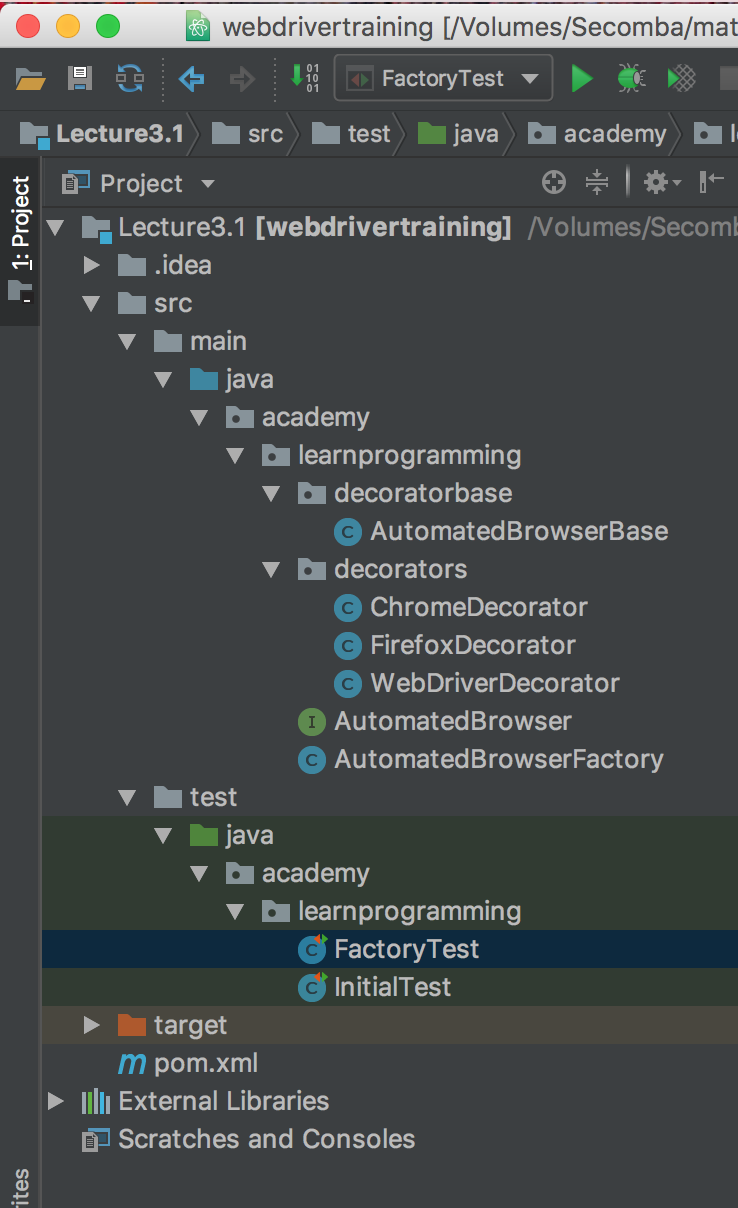
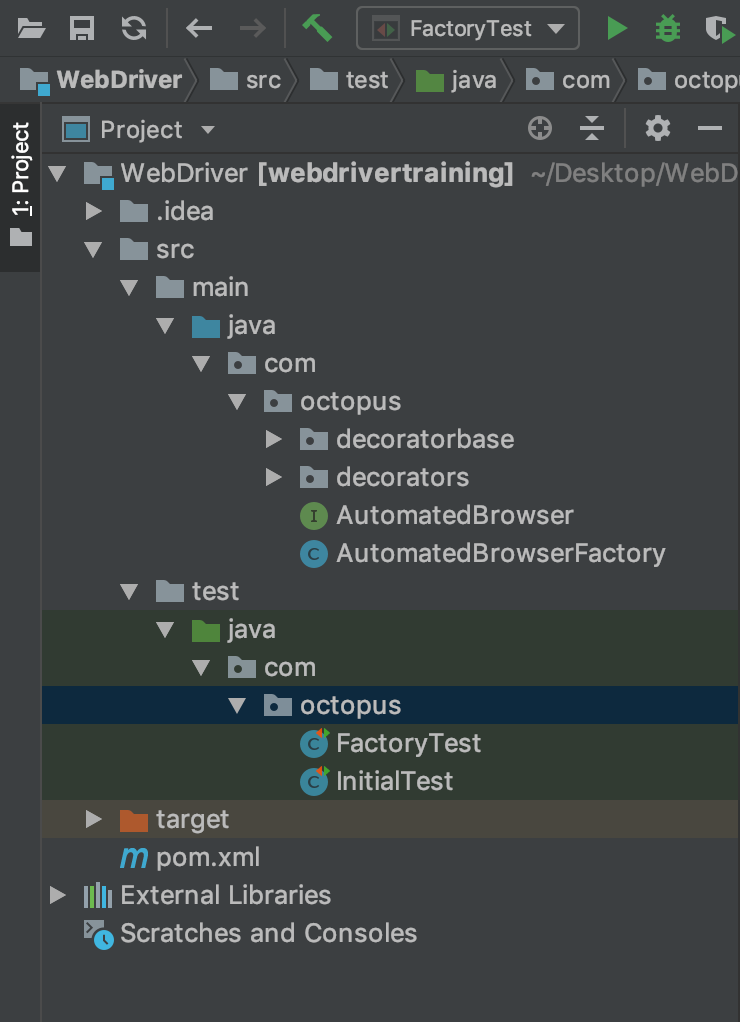
Finished with post 4

Changed region(s): [[0.0, 0.0, 1.0, 0.9706], [0.0, 0.9706, 0.0623, 1.0]]

diff --git a/blog/2018-10/selenium/4-creating-the-framework/creating-the-framework.md b/blog/2018-10/selenium/4-creating-the-framework/creating-the-framework.md
@@ -17,33 +17,33 @@ Before we can create this class, we first need to add a new directory to our pro
 
 Right click on the `src` directory, and select `New` → `Directory`.
 
-![](./image1.png)
+![](./image1.png "width=500")
 
 Enter `main/java/com/octopus` as the directory name and click
 `OK`.
 
-![](./image2.png)
+![](./image2.png "width=500")
 
 As before, the new directory structure is created, but it is not yet recognized by IntelliJ as a directory that holds Java classes.
 
-![](./image3.png)
+![](./image3.png "width=500")
 
 To fix this, open the `Maven Projects` tool window and click the `Reimport All Maven Projects` button.
 
-![](./image4.png)
+![](./image4.png "width=500")
 
 The `java` directory is now shown with a blue icon, which indicates that it will hold Java classes.
 
-![](./image5.png)
+![](./image5.png "width=500")
 
 We can now create the class `AutomatedBrowserFactory` in the
 `src/main/java/com/octopus` directory. To create the new click right click on the `octopus` folder and select `New` → `Java Class`.
 
-![](./image11.png)
+![](./image11.png "width=500")
 
 Enter `AutomatedBrowserFactory` in the `Name` field and click the `OK` button.
 
-![](./image12.png)
+![](./image12.png "width=500")
 
 In the snippet below, we have a factory skeleton with a method called `getAutomatedBrowser()` that accepts the name of the browser that we wish to test against. This method returns an instance of the `AutomatedBrowser` interface.
 
@@ -80,11 +80,11 @@ The `AutomatedBrowser` interface will expose all the interactions we will perfor
 
 To create the `AutomatedBrowser` interface right click on the `octopus` directory and select `New` → `Java Class`.
 
-![](./image13.png)
+![](./image13.png "width=500")
 
 Enter `AutomatedBrowser` in the `Name` field, select the `Interface` option from the `Kind` field, and click the `OK` button.
 
-![](./image14.png)
+![](./image14.png "width=500")
 
 Then paste the following code into the new file.
 
@@ -136,15 +136,15 @@ own package will be an important design decision for features that we'll look at
 
 To create the new package, right click on the `octopus` directory and select `New` → `Package`.
 
-![](./image6.png)
+![](./image6.png "width=500")
 
 Enter the name `decoratorbase`, and click the `OK` button.
 
-![](./image7.png)
+![](./image7.png "width=500")
 
 The new package is then added to the directory structure.
 
-![](./image8.png)
+![](./image8.png "width=500")
 
 Inside the `com.octopus.decoratorbase` package create a new
 class called `AutomatedBrowserBase` with the following code. Each method defined in the `AutomatedBrowser` interface is implemented by passing it through to the `automatedBrowser` instance variable (if it is not null).
@@ -242,7 +242,7 @@ public class AutomatedBrowserBase implements AutomatedBrowser {
 
 Now let's extend the `AutomatedBrowserBase` class to create the `ChromeDecorator` class. `ChromeDecorator` will override the `init()` method to create an instance of the `ChromeDriver` class.
 
-The `ChromeDecorator` class will be placed in the `com.octopus.decorators` package, so create the new decorators package just like you did with the `decoratorbase` package.
+The `ChromeDecorator` class will be placed in the `com.octopus.decorators` package, so create the new `decorators` package just like you did with the `decoratorbase` package.
 
 Inside the `com.octopus.decorators` package create a class called `ChromeDecorator` with the following code.
 
@@ -302,8 +302,7 @@ The last step is to initialize the drivers by calling `getAutomatedBrowser().ini
 
 The final decorator we need is one that uses the WebDriver API to perform actions against the browsers initialized by either the `ChromeDecorator` or `FirefoxDecorator` classes. For this we'll create the `WebDriverDecorator` class.
 
-The `WebDriverDecorator` class will host a `WebDriver` instance, and expose it through the `getWebDriver()` and `setWebDriver()` methods. `The destroy()` method will close the web browser, and the `goTo()` method opens up the
-supplied URL.
+The `WebDriverDecorator` class will host a `WebDriver` instance, and expose it through the `getWebDriver()` and `setWebDriver()` methods. `The destroy()` method will close the web browser, and the `goTo()` method opens up the supplied URL.
 
 Notice that `WebDriverDecorator` has a default constructor. This is unlike `ChromeDecorator` and `FirefoxDecorator`, which both provide a single constructor that takes a `AutomatedBrowser`. This difference exists because `WebDriverDecorator` is intended to be the base `AutomatedBrowser` that other decorators wrap up. We'll see this in action when we update the `AutomatedBrowserFactory` class.
 
@@ -313,61 +312,42 @@ We've already seen a lot of the code that goes into `the WebDriverDecorator` cl
 package com.octopus.decorators;
 
 import com.octopus.AutomatedBrowser;
-
 import com.octopus.decoratorbase.AutomatedBrowserBase;
-
 import org.openqa.selenium.WebDriver;
 
 public class WebDriverDecorator extends AutomatedBrowserBase {
 
-private WebDriver webDriver;
+  private WebDriver webDriver;
 
-public WebDriverDecorator() {
+  public WebDriverDecorator() {
 
-}
+  }
 
-public WebDriverDecorator(final AutomatedBrowser automatedBrowser) {
+  public WebDriverDecorator(final AutomatedBrowser automatedBrowser) {
+    super(automatedBrowser);
+  }
 
-super(automatedBrowser);
+  @Override
+  public WebDriver getWebDriver() {
+    return webDriver;
+  }
 
-}
+  @Override
+  public void setWebDriver(final WebDriver webDriver) {
+    this.webDriver = webDriver;
+  }
 
-@Override
+  @Override
+  public void destroy() {
+    if (webDriver != null) {
+      webDriver.quit();
+    }
+  }
 
-public WebDriver getWebDriver() {
-
-return webDriver;
-
-}
-
-@Override
-
-public void setWebDriver(final WebDriver webDriver) {
-
-this.webDriver = webDriver;
-
-}
-
-@Override
-
-public void destroy() {
-
-if (webDriver != null) {
-
-webDriver.quit();
-
-}
-
-}
-
-@Override
-
-public void goTo(final String url) {
-
-webDriver.get(url);
-
-}
-
+  @Override
+  public void goTo(final String url) {
+    webDriver.get(url);
+  }
 }
 ```
 
@@ -379,29 +359,21 @@ Note how the decorator constructors wrap each other up. This is key to the decor
 
 ```java
 private AutomatedBrowser getChromeBrowser() {
-
-return new ChromeDecorator(
-
-new WebDriverDecorator()
-
-);
-
+  return new ChromeDecorator(
+    new WebDriverDecorator()
+  );
 }
 
 private AutomatedBrowser getFirefoxBrowser() {
-
-return new FirefoxDecorator(
-
-new WebDriverDecorator()
-
-);
-
+  return new FirefoxDecorator(
+    new WebDriverDecorator()
+  );
 }
 ```
 
 The image below shows how decorators wrap each other up, and pass method calls to the instances that they decorate.
 
-![](./image9.png)
+![](./image9.png "width=500")
 
 Let's create a test that makes use of our factory and the instances of `AutomatedBrowser` that it creates.
 
@@ -412,57 +384,38 @@ Because this is a test class, it will be created in the
 package com.octopus;
 
 import org.junit.Test;
-
 import org.junit.runner.RunWith;
-
 import org.junit.runners.Parameterized;
-
 import java.util.Arrays;
 
 @RunWith(Parameterized.class)
-
 public class FactoryTest {
 
-private static final AutomatedBrowserFactory AUTOMATED_BROWSER_FACTORY
-= new AutomatedBrowserFactory();
+  private static final AutomatedBrowserFactory AUTOMATED_BROWSER_FACTORY
+    = new AutomatedBrowserFactory();
 
-private String browser;
+  private String browser;
 
-public FactoryTest(final String browser) {
+  public FactoryTest(final String browser) {
+    this.browser = browser;
+  }
 
-this.browser = browser;
+  @Parameterized.Parameters
+  public static Iterable data() {
+    return Arrays.asList(
+      "Chrome",
+      "Firefox"
+    );
+  }
 
-}
-
-@Parameterized.Parameters
-
-public static Iterable data() {
-
-return Arrays.asList(
-
-"Chrome",
-
-"Firefox"
-
-);
-
-}
-
-@Test
-
-public void openURL() {
-
-final AutomatedBrowser automatedBrowser =
-AUTOMATED_BROWSER_FACTORY.getAutomatedBrowser(browser);
-
-automatedBrowser.init();
-
-automatedBrowser.goTo("https://learnprogramming.academy/");
-
-automatedBrowser.destroy();
-
-}
-
+  @Test
+  public void openURL() {
+    final AutomatedBrowser automatedBrowser =
+      AUTOMATED_BROWSER_FACTORY.getAutomatedBrowser(browser);
+    automatedBrowser.init();
+    automatedBrowser.goTo("https://octopus.com/");
+    automatedBrowser.destroy();
+  }
 }
 ```
 
@@ -481,17 +434,11 @@ It then needs a static method to return the values that will be passed to the `F
 
 ```java
 @Parameterized.Parameters
-
 public static Iterable data() {
-
-return Arrays.asList(
-
-"Chrome",
-
-"Firefox"
-
-);
-
+  return Arrays.asList(
+    "Chrome",
+    "Firefox"
+  );
 }
 ```
 
@@ -505,7 +452,7 @@ public FactoryTest(final String browser) {
 }
 ```
 
-The test method can then make use of the browser instance variable to launch either the Chrome or Firefox browser as part of the test.
+The test method can then make use of the `browser` instance variable to launch either the Chrome or Firefox browser as part of the test.
 
 This ability to select a browser at run time through the
 `AutomatedBrowserFactory` will provide us with a great deal of flexibility in our testing later on.
@@ -515,7 +462,7 @@ This ability to select a browser at run time through the
 
 public void openURL() {
   final AutomatedBrowser automatedBrowser =
-  AUTOMATED_BROWSER_FACTORY.getAutomatedBrowser(browser);
+    AUTOMATED_BROWSER_FACTORY.getAutomatedBrowser(browser);
 
   automatedBrowser.init();
   automatedBrowser.goTo("https://octopus.com/");
@@ -525,6 +472,6 @@ public void openURL() {
 
 We have created a number of new classes as part of this blog, and you should end up with a directory structure that looks like this.
 
-![](./image10.png)
+![](./image10.png "width=500")
 
 Now that we have a simple framework to run tests against multiple browsers, we need to have a web page that we can interact with, which we will create in the next post.
